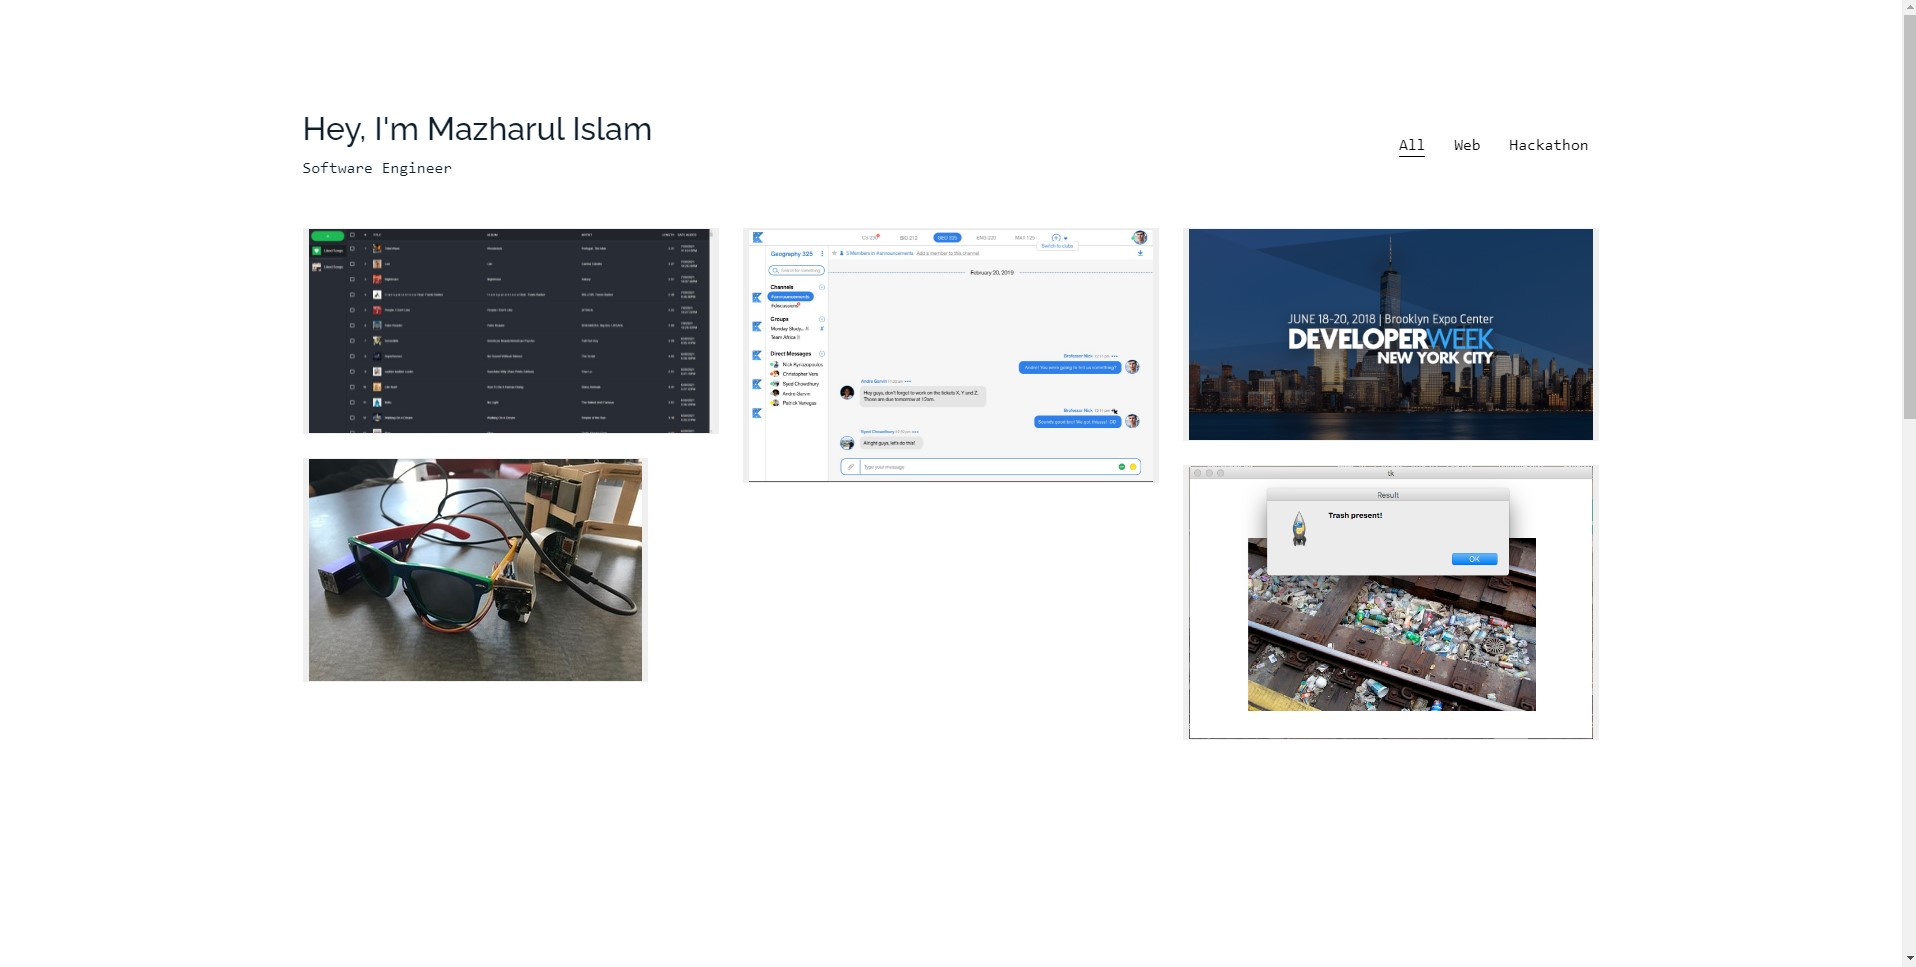
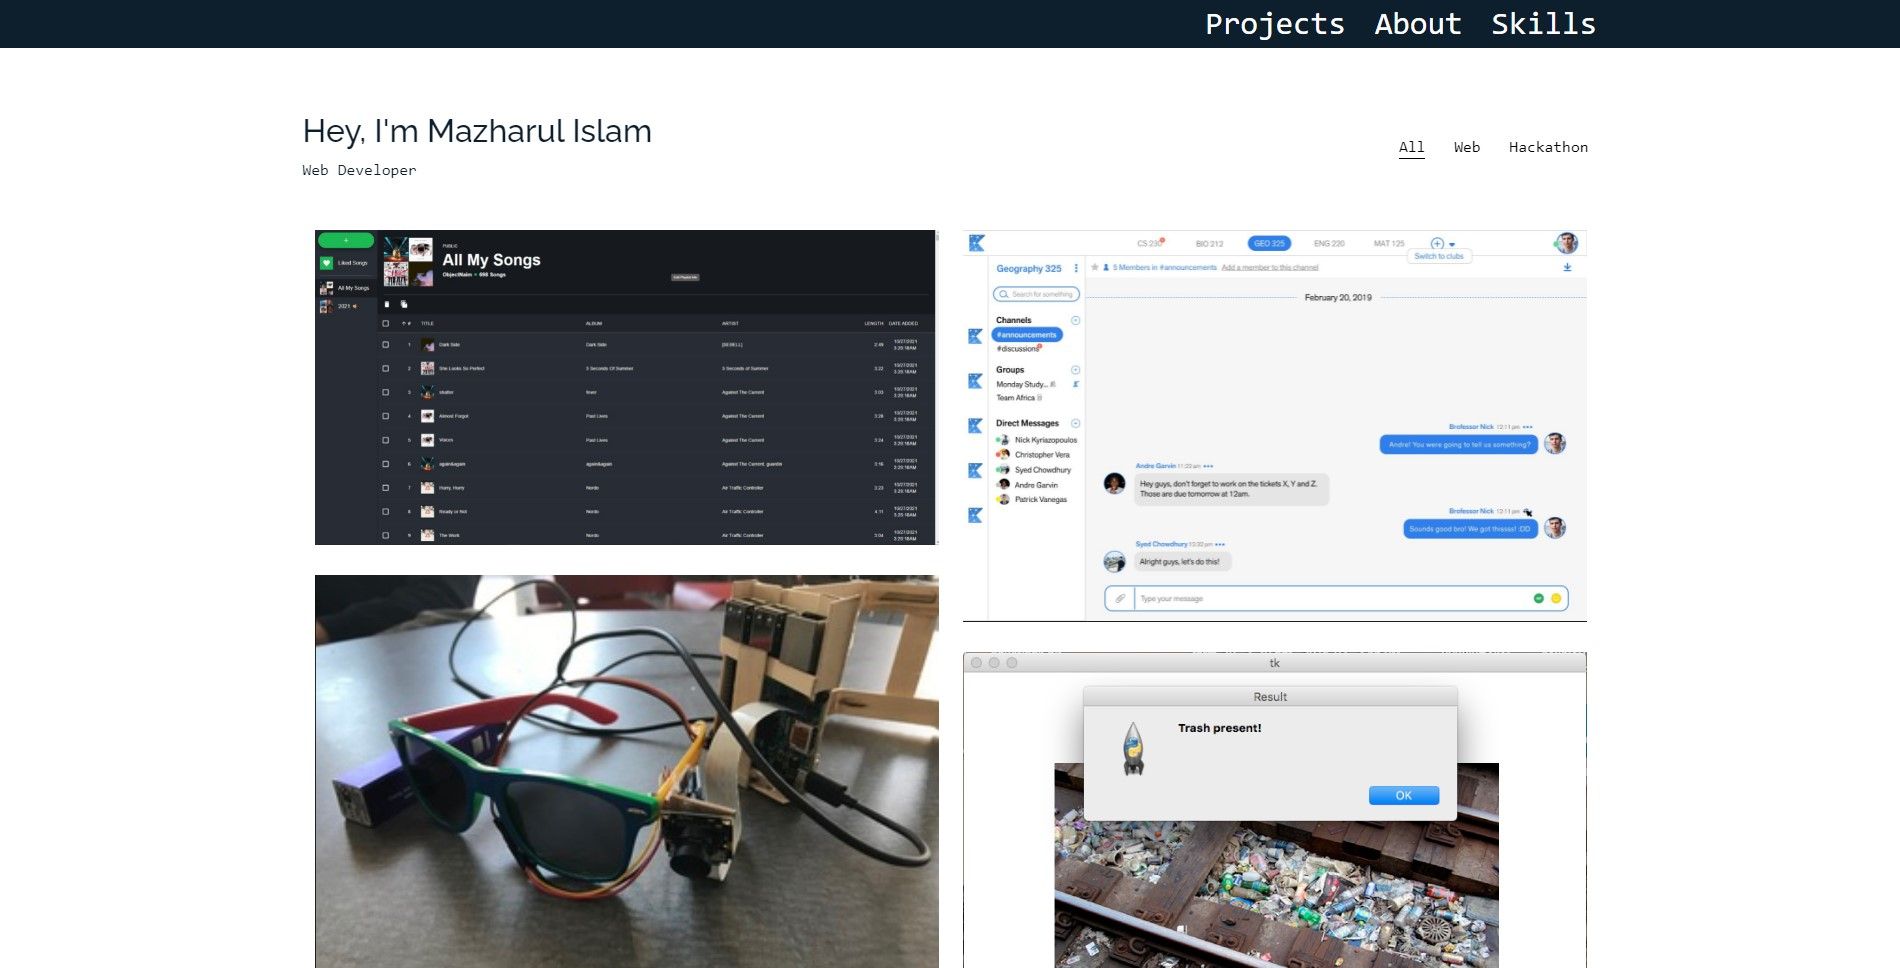
Replaced resume and the site image that is displayed on the readme. Added a button at the bottom of the main page that leads to the github of the page. Added tooltip text to some of the buttons.

diff --git a/playlist-wizard.html b/playlist-wizard.html
@@ -116,13 +116,13 @@
 
                 <div class="row">
                   <p class="button-links">
-                    <a href="https://github.com/MazharulIslam-Naim/Playlist_Wizard" target="_blank" class="readmore">
+                    <a href="https://github.com/MazharulIslam-Naim/Playlist_Wizard" target="_blank" title="Github" class="readmore">
                       <i class="bi bi-github button-icons">
                       </i>
                     </a>
                   </p>
                   <p class="button-links">
-                    <a href="https://spotify-playlist-wizard-f.herokuapp.com"  target="_blank" class="readmore">
+                    <a href="https://www.playlist-wizard.app/"  target="_blank" title="Live Site" class="readmore">
                       <i class="bi bi-globe2 button-icons">
                       </i>
                     </a>

diff --git a/index.html b/index.html
@@ -173,6 +173,13 @@
       </div>
     </section><!-- End Skills Section -->
 
+    <p class="github-button">
+      <a href="https://github.com/MazharulIslam-Naim/MazharulIslam-Naim.github.io" target="_blank" title="Github for this site" class="readmore">
+        <i class="bi bi-github button-icons">
+        </i>
+      </a>
+    </p>
+
   </main><!-- End #main -->
 
   <!-- Vendor JS Files -->

diff --git a/assets/css/style.css b/assets/css/style.css
@@ -28,7 +28,7 @@ h1, h2, h3, h4, h5, h6, .font-heading {
 
 .nav-buttons a {
   text-decoration: none;
-  font-size: 2rem;
+  font-size: 1.5rem;
   color: white;
   display: inline-block;
   padding-left: 10px;
@@ -202,6 +202,11 @@ h1, h2, h3, h4, h5, h6, .font-heading {
 
 .heading {
   font-size: 28px;
+}
+
+.github-button {
+  display: flex;
+  justify-content: center;
 }
 
 .back {
